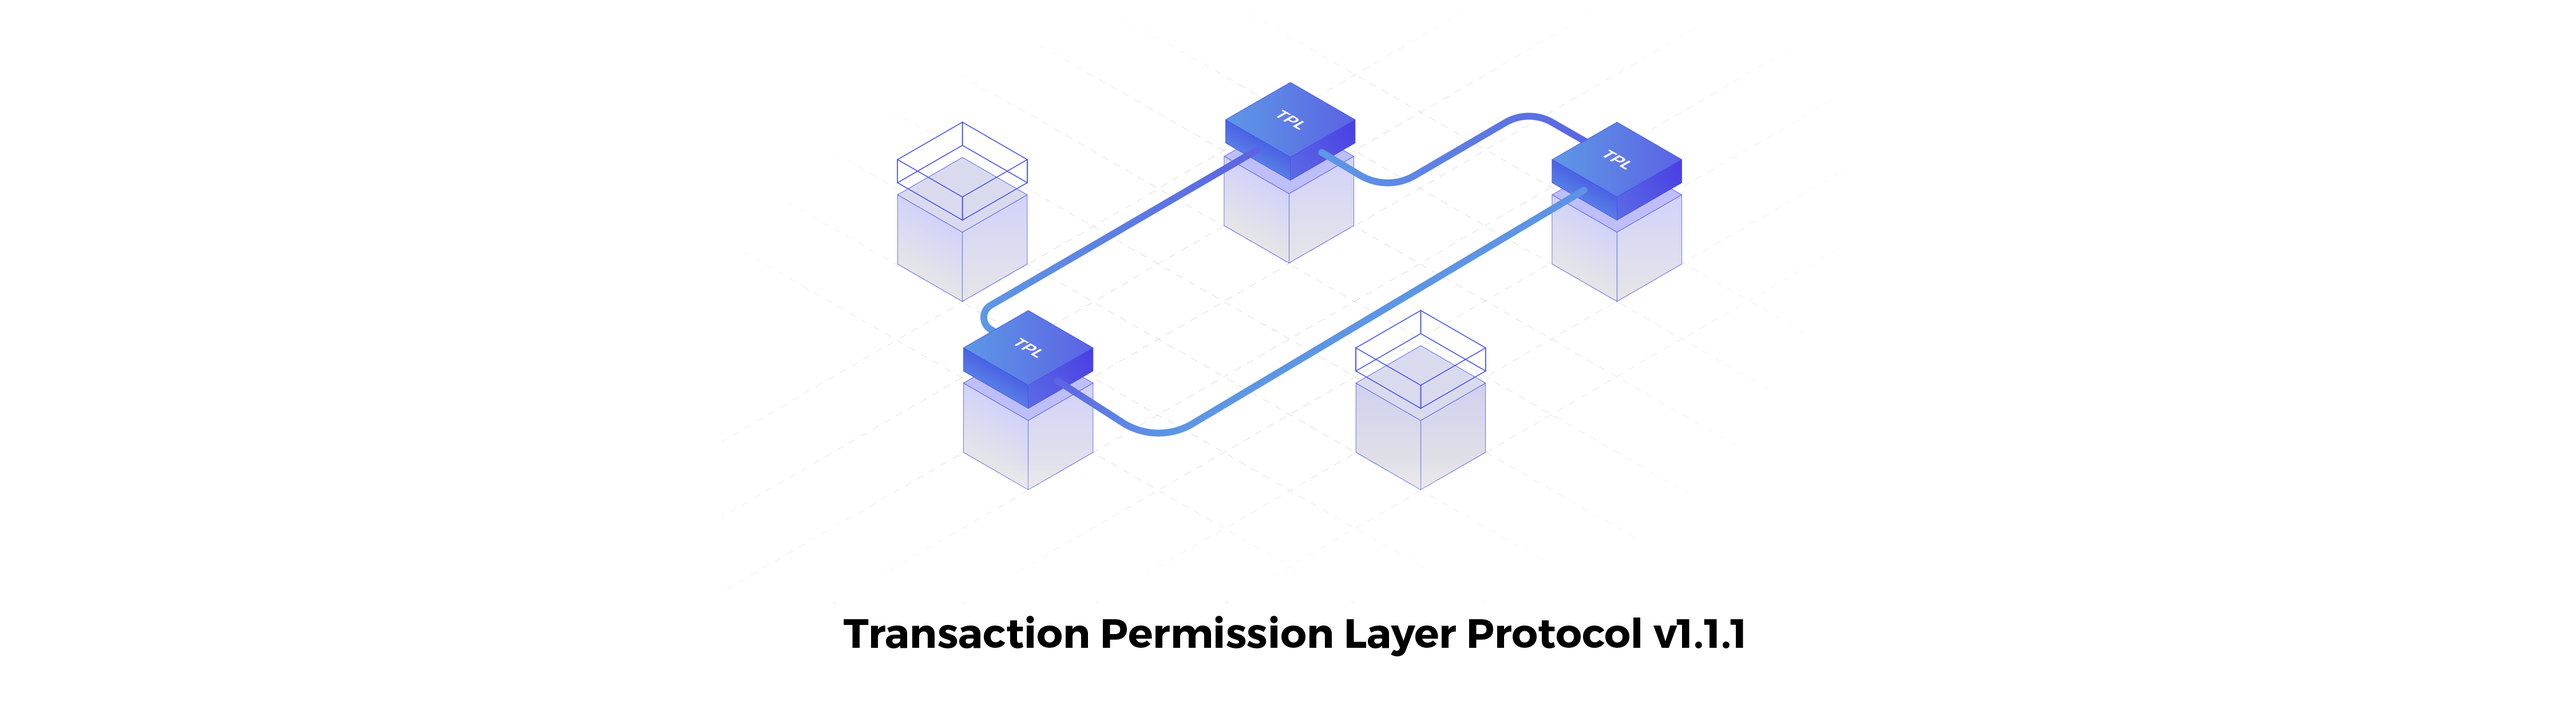
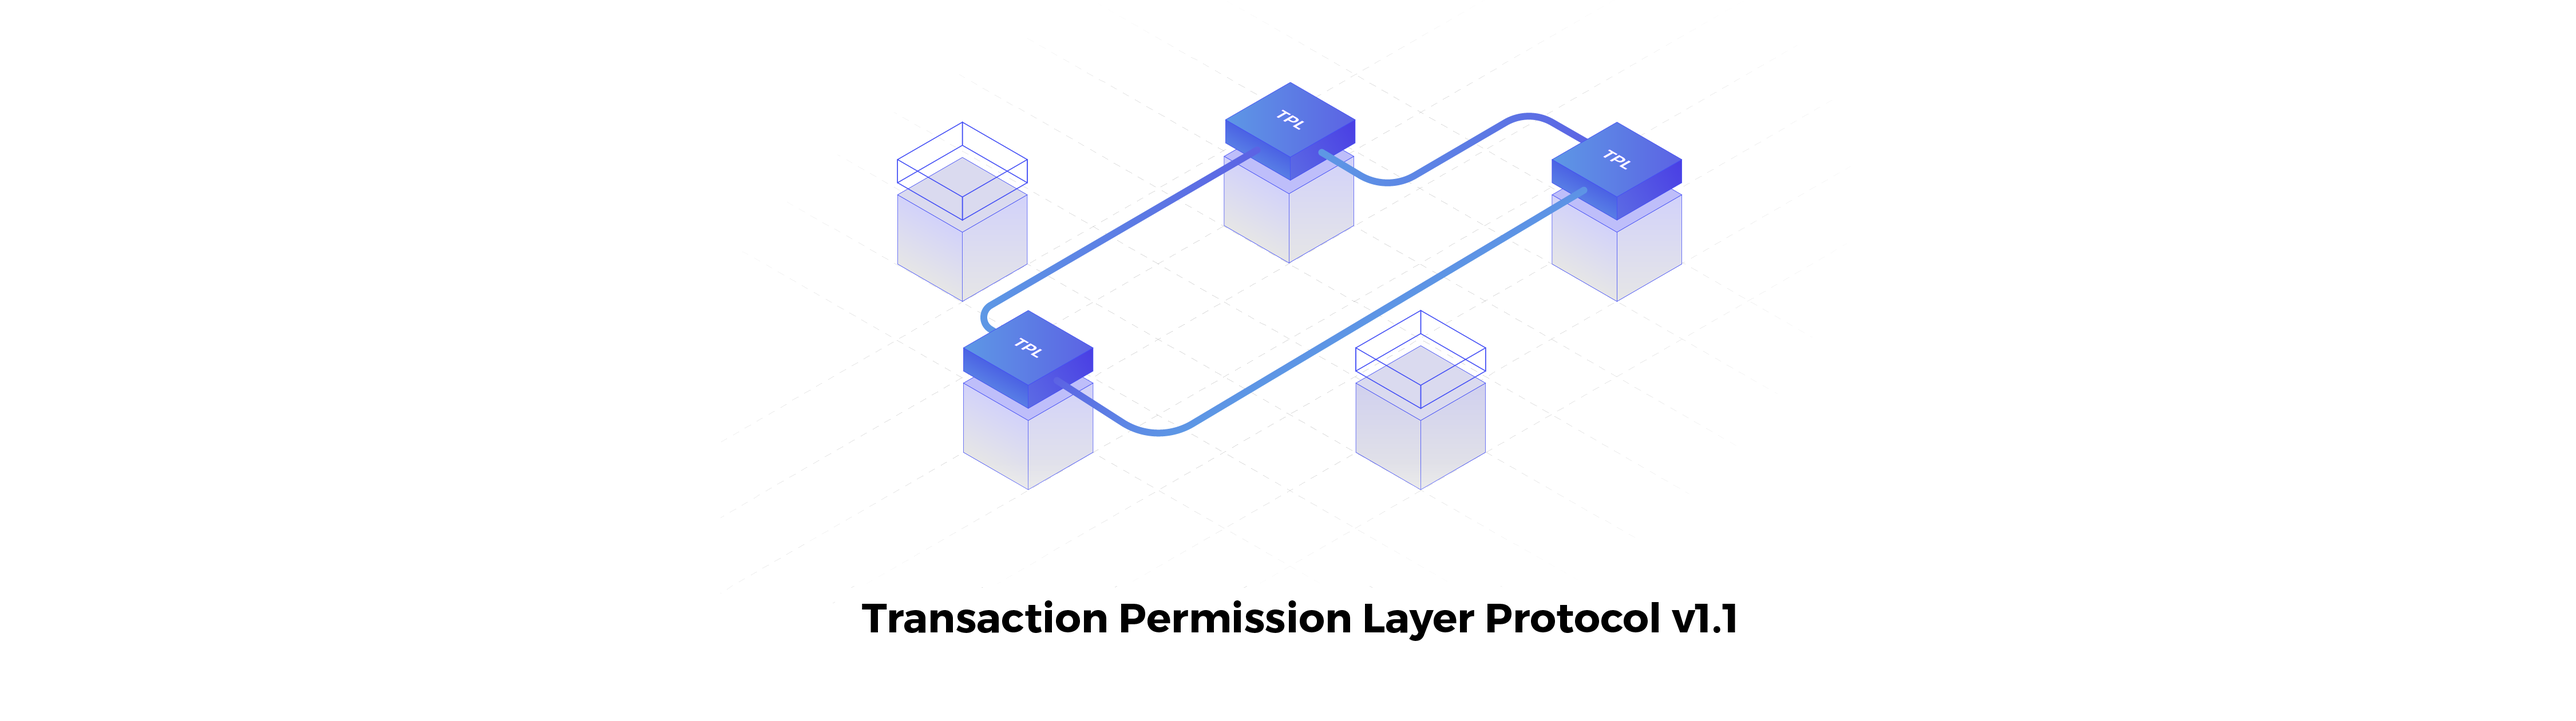
Move openzeppelin-solidity devDependencies to dependencies & remove patch version

Changed region(s): [[0.311, 0.8351, 0.6843, 0.8969]]

diff --git a/README.md b/README.md
@@ -1,4 +1,4 @@
-# Transaction Permission Layer v1.1.1 (tpl-contracts)
+# Transaction Permission Layer v1.1 (tpl-contracts)
 
 ![banner](images/TPL_01@3x.png)
 
@@ -43,7 +43,6 @@ To create a new project with TPL contracts as a dependency:
 ```sh
 $ yarn global add truffle@5.0.0-beta.1 # or $ npm install -g truffle@5.0.0-beta.1
 $ truffle init && yarn init # or npm init
-$ yarn add openzeppelin-solidity # or npm install openzeppelin-solidity
 $ yarn add tpl-contracts # or $ npm install tpl-contracts
 ```
 
